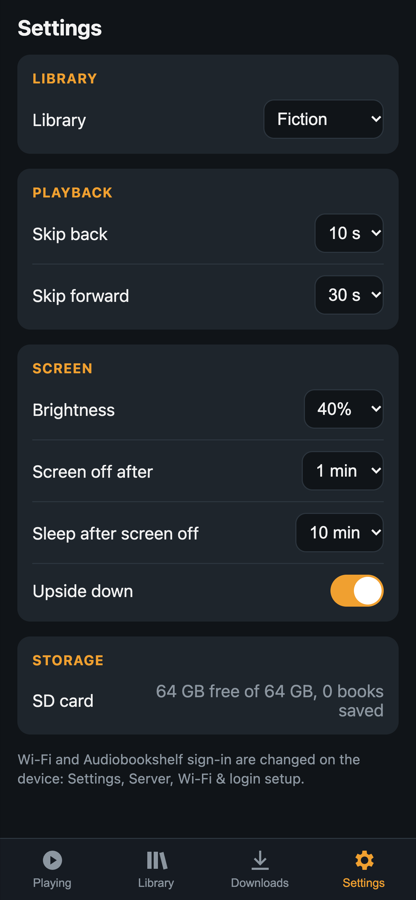
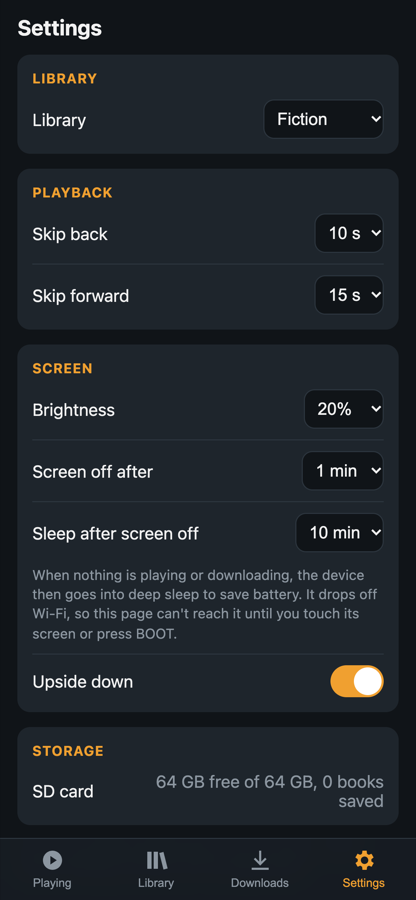
Remote: explain what Sleep after screen off does

diff --git a/main/network/remote_page.html b/main/network/remote_page.html
@@ -83,6 +83,8 @@ section h2{font-size:13px;color:var(--accent);margin:10px 0 2px;text-transform:u
 .row{display:flex;align-items:center;justify-content:space-between;gap:12px;padding:10px 0;border-bottom:1px solid var(--line)}
 .row:last-child{border-bottom:0}
 .row>span:first-child{white-space:nowrap}
+.row.with-hint{flex-wrap:wrap}
+.hint{flex-basis:100%;margin:0;font-size:13px;color:var(--muted);line-height:1.4}
 #s-storage{text-align:right}
 .row select{flex:0 1 auto;background:var(--bg);padding:8px}
 .row input[type=range]{flex:0 1 55%}
@@ -178,7 +180,10 @@ nav button[aria-selected=true]{color:var(--accent)}
       <h2>Screen</h2>
       <div class="row"><span>Brightness</span><select id="s-brightness"></select></div>
       <div class="row"><span>Screen off after</span><select id="s-screen_off_s"></select></div>
-      <div class="row"><span>Sleep after screen off</span><select id="s-sleep_min"></select></div>
+      <div class="row with-hint"><span>Sleep after screen off</span><select id="s-sleep_min"></select>
+        <p class="hint">When nothing is playing or downloading, the device then goes into deep sleep to
+          save battery. It drops off Wi-Fi, so this page can't reach it until you touch its screen or
+          press BOOT.</p></div>
       <div class="row"><span>Upside down</span><label class="switch"><input type="checkbox" id="s-rotate180"><span></span></label></div>
     </section>
     <section>
